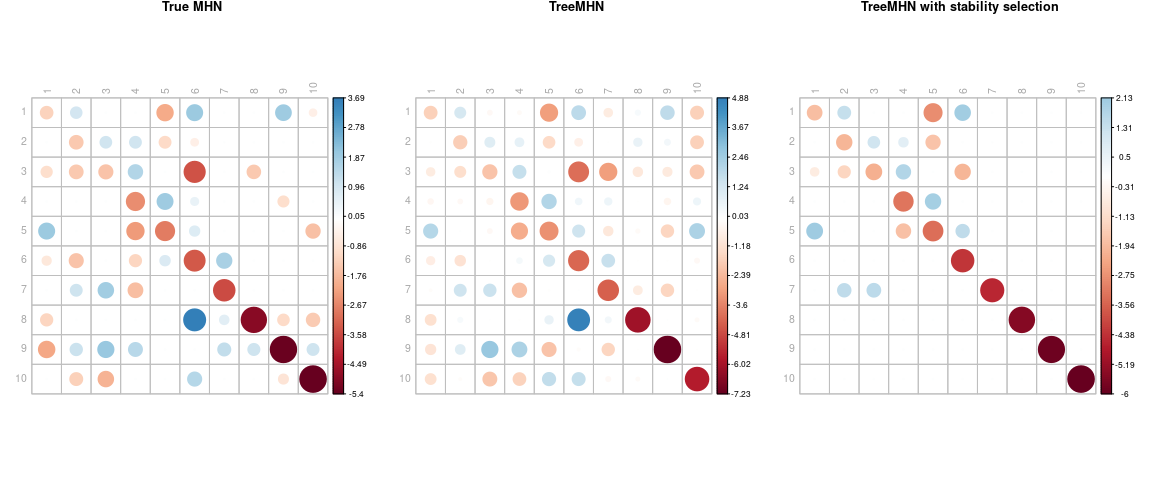
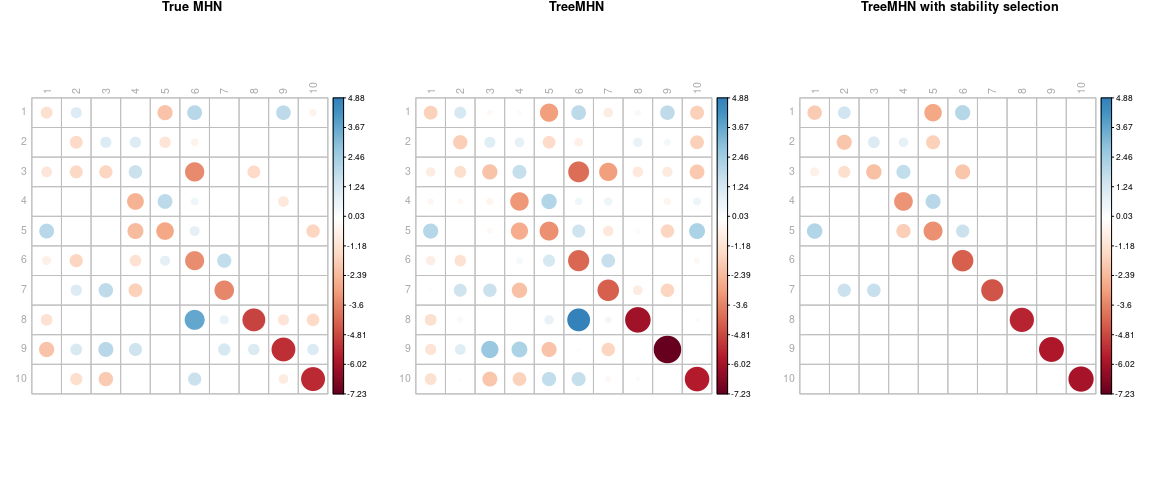
fix col.lim issue

diff --git a/Example/Demo.md b/Example/Demo.md
@@ -127,46 +127,16 @@ par(mfrow = c(1,3))
 col.lim.up <- max(max(true_Theta),max(pred_Theta),max(pred_Theta_w_SS))
 col.lim.lo <- min(min(true_Theta),min(pred_Theta),min(pred_Theta_w_SS))
 idx <- order(diag(true_Theta),decreasing = TRUE)
-corrplot(true_Theta[idx,idx], is.corr = FALSE,
-         col.lim = c(col.lim.lo,col.lim.up), 
+corrplot(true_Theta[idx,idx],
+         col.lim = c(col.lim.lo,col.lim.up), is.corr = FALSE, 
          title = "True MHN", tl.col = "darkgrey", mar = c(1, 1, 1, 1))
-```
-
-    ## Warning in text.default(pos.xlabel[, 1], pos.xlabel[, 2], newcolnames, srt =
-    ## tl.srt, : "col.lim" is not a graphical parameter
-
-    ## Warning in text.default(pos.ylabel[, 1], pos.ylabel[, 2], newrownames, col =
-    ## tl.col, : "col.lim" is not a graphical parameter
-
-    ## Warning in title(title, ...): "col.lim" is not a graphical parameter
-
-``` r
-corrplot(pred_Theta[idx,idx], is.corr = FALSE,
-         col.lim = c(col.lim.lo,col.lim.up), 
+corrplot(pred_Theta[idx,idx],
+         col.lim = c(col.lim.lo,col.lim.up), is.corr = FALSE, 
          title = "TreeMHN", tl.col = "darkgrey", mar = c(1, 1, 1, 1))
-```
-
-    ## Warning in text.default(pos.xlabel[, 1], pos.xlabel[, 2], newcolnames, srt =
-    ## tl.srt, : "col.lim" is not a graphical parameter
-
-    ## Warning in text.default(pos.ylabel[, 1], pos.ylabel[, 2], newrownames, col =
-    ## tl.col, : "col.lim" is not a graphical parameter
-
-    ## Warning in title(title, ...): "col.lim" is not a graphical parameter
-
-``` r
-corrplot(pred_Theta_w_SS[idx,idx], is.corr = FALSE,
-         col.lim = c(col.lim.lo,col.lim.up), 
+corrplot(pred_Theta_w_SS[idx,idx],
+         col.lim = c(col.lim.lo,col.lim.up), is.corr = FALSE, 
          title = "TreeMHN with stability selection", tl.col = "darkgrey", mar = c(1, 1, 1, 1))
 ```
-
-    ## Warning in text.default(pos.xlabel[, 1], pos.xlabel[, 2], newcolnames, srt =
-    ## tl.srt, : "col.lim" is not a graphical parameter
-
-    ## Warning in text.default(pos.ylabel[, 1], pos.ylabel[, 2], newrownames, col =
-    ## tl.col, : "col.lim" is not a graphical parameter
-
-    ## Warning in title(title, ...): "col.lim" is not a graphical parameter
 
 ![](Demo_files/figure-markdown_github/unnamed-chunk-7-1.png)
 
